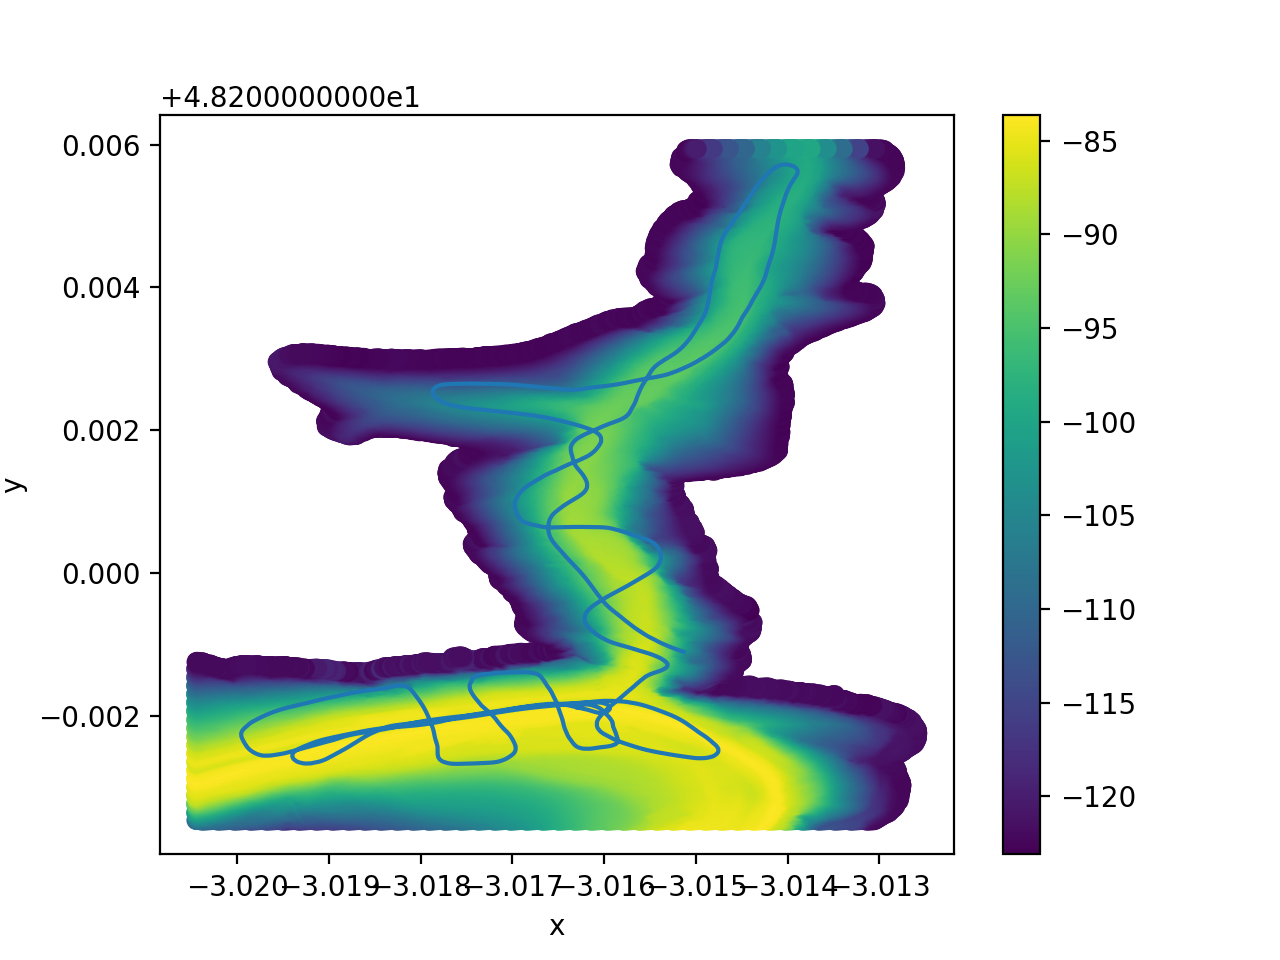
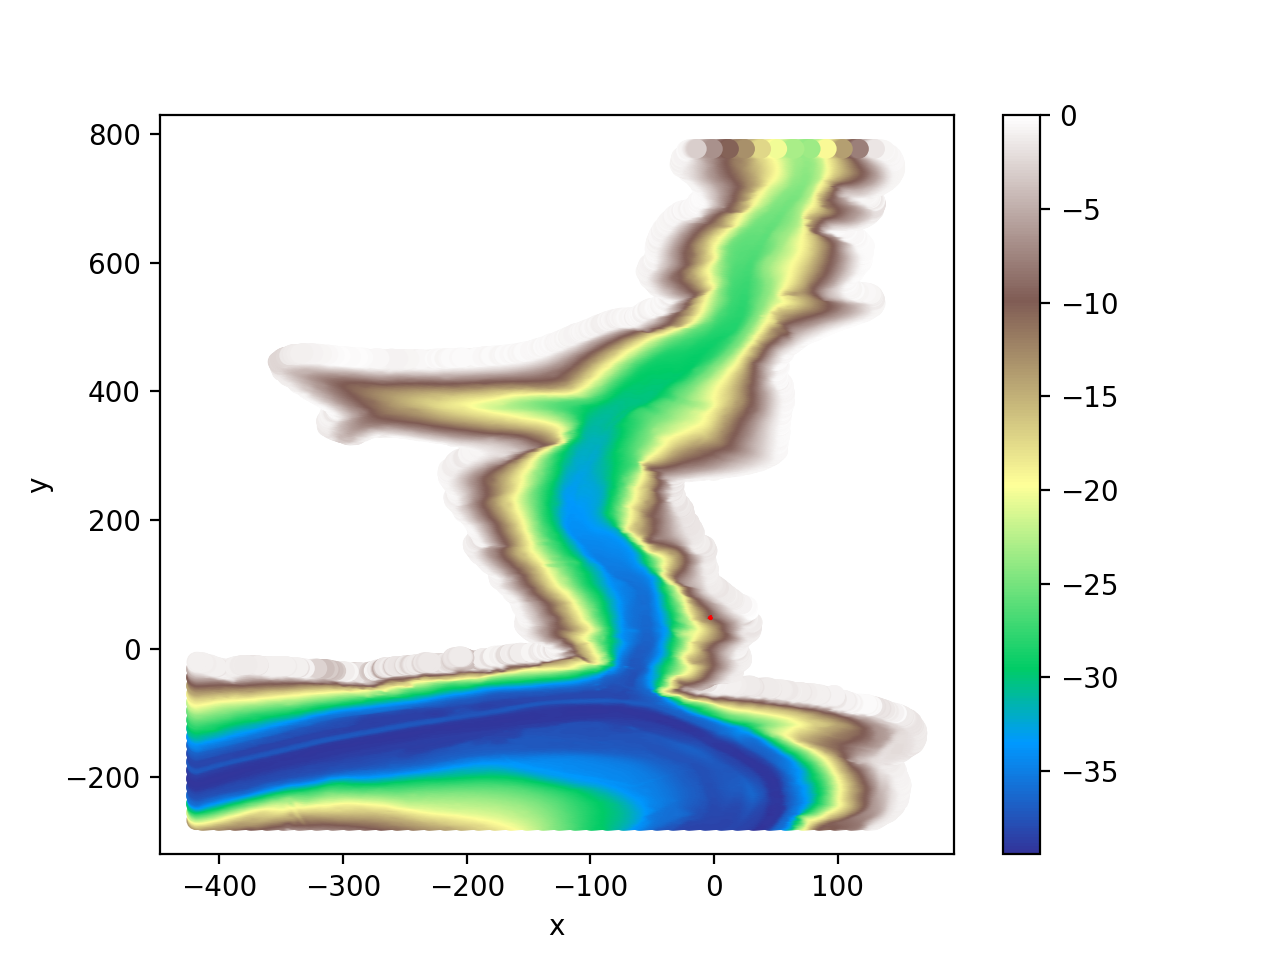
with filtered on plot

diff --git a/Simulation/storage/display_mnt.py b/Simulation/storage/display_mnt.py
@@ -12,10 +12,11 @@ def display_mnt(LON, LAT, mnt):
     fig, ax = plt.subplots()
 
     # Extract z values from the mnt array
-    z = mnt[:,2]
+    z = -(mnt[:,2] - np.min(mnt[:,2]))
 
     # Create a scatter plot of the x and y values, colored by the z values
-    sc = ax.scatter(x, y, c=z)
+    sc = ax.scatter(x, y, c=z, cmap="terrain")
+    # sc = ax.scatter(x, y, c=z)
 
     # Add a colorbar to the plot
     cb = fig.colorbar(sc)
@@ -24,11 +25,12 @@ def display_mnt(LON, LAT, mnt):
     ax.set_xlabel('x')
     ax.set_ylabel('y')
 
-    plt.plot(LON,LAT)
+    plt.plot(LON,LAT,color='red',label='trajectory')
 
     # Show the plot
     plt.savefig("MNT_G1.png", dpi = 200) #augmenter dpi pour une meilleure résolution
     # plt.show()
+    plt.legend()
 
 
 
@@ -39,22 +41,3 @@ if __name__ == '__main__':
     from PIL import Image
     image = Image.open("MNT_G1.png")
     image.show()
-
-
-    # import PIL.Image as Image
-    # import osm_ui
-    # import matplotlib.pyplot as plt
-    # lac = Image.open("../imgs/ortho_sat_2016_guerledan.tif")
-    # axes = osm_ui.plot_map(lac, (-3.118111, -2.954274), (48.183105, 48.237852), "Mis à l'eau de l'AUV")
-    # osm_ui.plot_xy_add(axes, LON, LAT)
-    # axes.legend(("ins",))
-    # print("Start to display the log..")
-    # plt.ion()
-    # for i in range(0,LON.shape[0],10000):
-    #     if i == 0:
-    #         point = plt.scatter(LON[i,], LAT[i,], color = "red", label = "Panopée")
-    #     point = plt.scatter(LON[i,], LAT[i,], color = "red")
-    #     plt.pause(0.001)
-    #     plt.legend()
-    #     plt.show()
-    #     print(i)

diff --git a/Simulation/storage/data_import.py b/Simulation/storage/data_import.py
@@ -586,10 +586,20 @@ if __name__ == '__main__':
 
         # d_bottom_mnt = distance_to_bottom(np.column_stack((x_gps,y_gps)),MNT)[1].squeeze()
         # ax1.plot(T, d_bottom_mnt, label = "d_mnt")
+
+        def passe_bas(x, alpha):
+            N = x.shape[0]
+            y = np.zeros_like(x)
+            y[0] = x[0]
+            for i in range(1, N):
+                y[i] = alpha * x[i] + (1 - alpha) * y[i-1]
+            return y
+
         dvl_BM1R_new = dvl_BM1R - 115.5714023521081
         ax1.plot(dvl_T, dvl_BM1R_new, label = "dvl_BM1R_new_raw", color = 'red')
         alpha = 0.9
-        ax1.legend(dvl_T[1:,],alpha*dvl_BM1R_new[1:,]-(1-alpha)*dvl_BM1R_new[:-1,], color = 'purple', label = "gléfiltrélol")
+        # ax1.legend(dvl_T[1:,],alpha*dvl_BM1R_new[1:,]-(1-alpha)*dvl_BM1R_new[:-1,], color = 'purple', label = "gléfiltrélol")
+        ax1.plot(dvl_T,passe_bas(dvl_BM1R_new, 0.01), color = 'purple', label = "gléfiltrélol")
         d_bottom_mnt = distance_to_bottom(np.column_stack((x_gps+dp_x_B1,y_gps+dp_y_B1)),MNT)[1].squeeze()
         ax1.plot(T, d_bottom_mnt, label = "d_mnt_beam1", color = 'green')
         ax1.grid()
